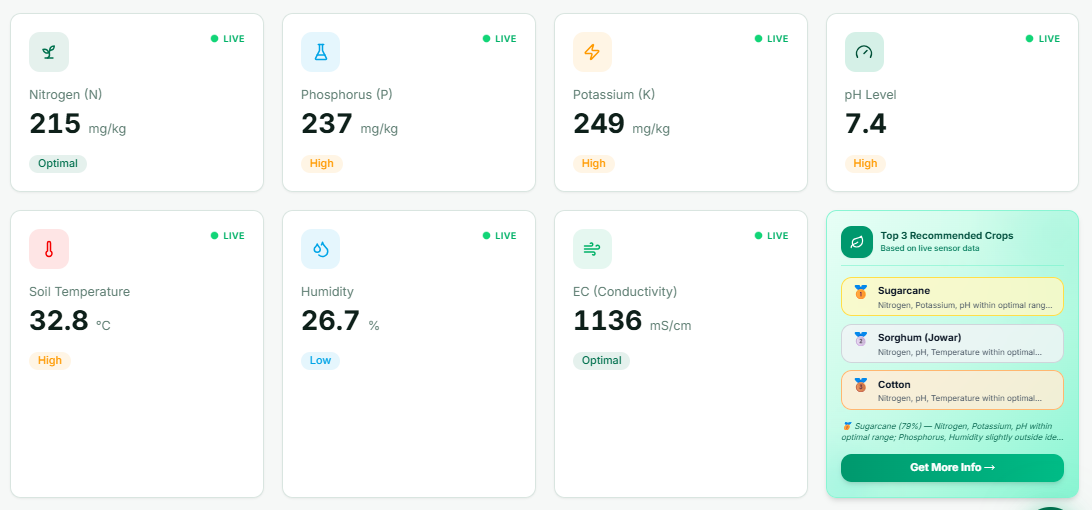
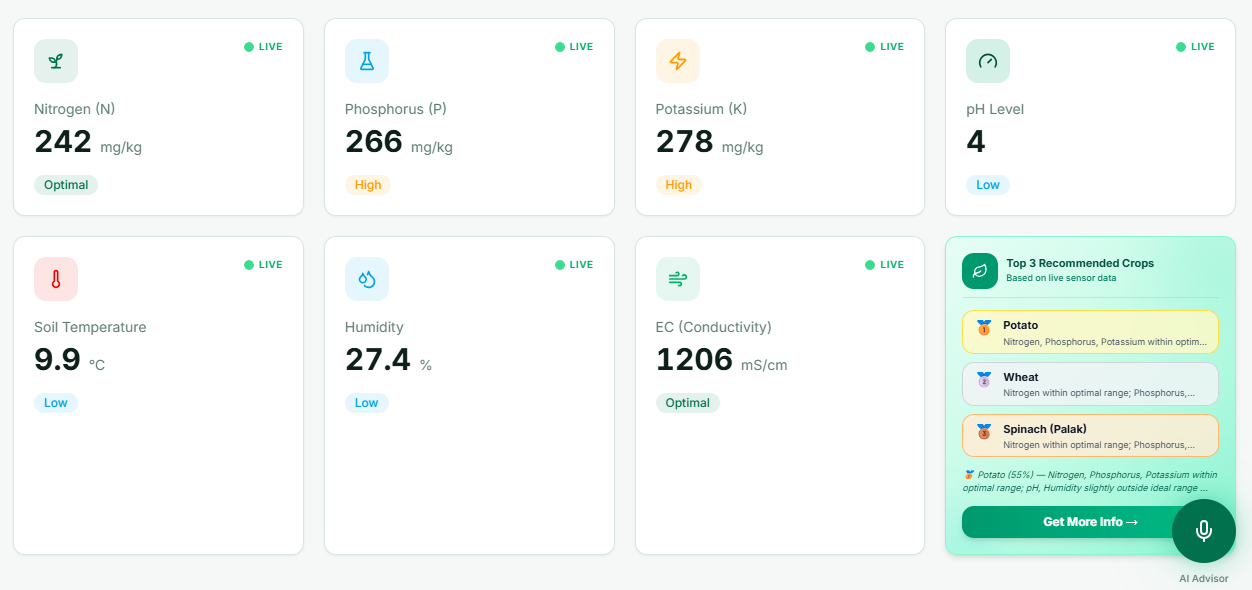
URL Updated

diff --git a/Frontend/src/pages/AIAdvisor.tsx b/Frontend/src/pages/AIAdvisor.tsx
@@ -89,109 +89,209 @@ export default function AIAdvisor() {
   }, [messages]);
 
   // Connect to WebSocket
+  // const connectWebSocket = async () => {
+  //   try {
+  //     setIsLoading(true);
+  //     setError(null);
+
+  //     const host = window.location.hostname || "localhost";
+  //     const backendPort = "8000";
+  //     const wsUrl = `ws://${host}:${backendPort}/voice/ws/voice-advisor`;
+
+  //     addMessage("info", t("connectingToVoiceAdvisor"));
+
+  //     const ws = new WebSocket(wsUrl);
+
+  //     ws.onopen = () => {
+  //       setIsConnected(true);
+  //       setIsLoading(false);
+  //       addMessage("status", t("connectedToVoiceAdvisor"));
+
+  //       // Send initial config
+  //       if (landSize) {
+  //         ws.send(JSON.stringify({ type: "config", land_size_acres: landSize }));
+  //       }
+  //     };
+
+  //     ws.onmessage = (event) => {
+  //       try {
+  //         const data = JSON.parse(event.data);
+
+  //         switch (data.type) {
+  //           case "status":
+  //             addMessage("status", `📢 ${data.message}`);
+  //             break;
+
+  //           case "transcription":
+  //             addMessage("transcription", `${t("youSaid")}: ${data.text}`, data.language);
+  //             break;
+
+  //           case "ai_response":
+  //             addMessage("ai_response", `🤖 ${data.text}`);
+  //             break;
+
+  //           case "audio_chunk":
+  //             audioChunksRef.current.push(base64ToBytes(data.data));
+  //             addMessage("info", `📥 Received audio chunk (${audioChunksRef.current.length} chunks)`);
+  //             break;
+
+  //           case "mute_mic":
+  //             setIsMicMuted(true);
+  //             isMicMutedRef.current = true;
+  //             addMessage("mute_mic", t("micMutedAiResponding"));
+  //             break;
+
+  //           case "unmute_mic":
+  //             setIsMicMuted(false);
+  //             isMicMutedRef.current = false;
+  //             addMessage("unmute_mic", t("micUnmutedSpeakNow"));
+  //             break;
+
+  //           case "completed":
+  //             addMessage("audio_playback", t("audioReceivedPlaying"));
+  //             playAudioChunks();
+  //             break;
+
+  //           case "error":
+  //             addMessage("error", `❌ ${data.message}`);
+  //             break;
+
+  //           case "keep_alive":
+  //           case "pong":
+  //             break;
+
+  //           default:
+  //             console.log("Unknown message type:", data.type);
+  //         }
+  //       } catch (e) {
+  //         console.error("Error parsing message:", e);
+  //       }
+  //     };
+
+  //     ws.onclose = () => {
+  //       setIsConnected(false);
+  //       setIsRecording(false);
+  //       isRecordingRef.current = false;
+  //       setIsMicMuted(false);
+  //       isMicMutedRef.current = false;
+  //       addMessage("status", t("disconnected"));
+  //     };
+
+  //     ws.onerror = () => {
+  //       setError("Failed to connect to Voice Advisor. Ensure backend is running.");
+  //       setIsConnected(false);
+  //       setIsLoading(false);
+  //       addMessage("error", t("websocketFailed"));
+  //     };
+
+  //     wsRef.current = ws;
+  //   } catch (err) {
+  //     const msg = err instanceof Error ? err.message : "Connection failed";
+  //     setError(msg);
+  //     addMessage("error", `❌ ${msg}`);
+  //     setIsLoading(false);
+  //   }
+  // };
+
   const connectWebSocket = async () => {
-    try {
-      setIsLoading(true);
-      setError(null);
+  try {
+    setIsLoading(true);
+    setError(null);
 
-      const host = window.location.hostname || "localhost";
-      const backendPort = "8000";
-      const wsUrl = `ws://${host}:${backendPort}/voice/ws/voice-advisor`;
+    // ✅ Derive wss:// or ws:// from your existing VITE_API_BASE_URL env variable
+    const apiBase =
+      import.meta.env.VITE_API_BASE_URL || "http://localhost:8000";
 
-      addMessage("info", t("connectingToVoiceAdvisor"));
+    const wsUrl = apiBase
+      .replace(/^https:\/\//, "wss://")   // https://agricheck-production.up.railway.app → wss://...
+      .replace(/^http:\/\//, "ws://")     // http://127.0.0.1:8000 → ws://...
+      .concat("/voice/ws/voice-advisor"); // keep your existing backend path
 
-      const ws = new WebSocket(wsUrl);
+    addMessage("info", t("connectingToVoiceAdvisor"));
 
-      ws.onopen = () => {
-        setIsConnected(true);
-        setIsLoading(false);
-        addMessage("status", t("connectedToVoiceAdvisor"));
+    const ws = new WebSocket(wsUrl);
 
-        // Send initial config
-        if (landSize) {
-          ws.send(JSON.stringify({ type: "config", land_size_acres: landSize }));
-        }
-      };
-
-      ws.onmessage = (event) => {
-        try {
-          const data = JSON.parse(event.data);
-
-          switch (data.type) {
-            case "status":
-              addMessage("status", `📢 ${data.message}`);
-              break;
-
-            case "transcription":
-              addMessage("transcription", `${t("youSaid")}: ${data.text}`, data.language);
-              break;
-
-            case "ai_response":
-              addMessage("ai_response", `🤖 ${data.text}`);
-              break;
-
-            case "audio_chunk":
-              audioChunksRef.current.push(base64ToBytes(data.data));
-              addMessage("info", `📥 Received audio chunk (${audioChunksRef.current.length} chunks)`);
-              break;
-
-            case "mute_mic":
-              setIsMicMuted(true);
-              isMicMutedRef.current = true;
-              addMessage("mute_mic", t("micMutedAiResponding"));
-              break;
-
-            case "unmute_mic":
-              setIsMicMuted(false);
-              isMicMutedRef.current = false;
-              addMessage("unmute_mic", t("micUnmutedSpeakNow"));
-              break;
-
-            case "completed":
-              addMessage("audio_playback", t("audioReceivedPlaying"));
-              playAudioChunks();
-              break;
-
-            case "error":
-              addMessage("error", `❌ ${data.message}`);
-              break;
-
-            case "keep_alive":
-            case "pong":
-              break;
-
-            default:
-              console.log("Unknown message type:", data.type);
-          }
-        } catch (e) {
-          console.error("Error parsing message:", e);
-        }
-      };
-
-      ws.onclose = () => {
-        setIsConnected(false);
-        setIsRecording(false);
-        isRecordingRef.current = false;
-        setIsMicMuted(false);
-        isMicMutedRef.current = false;
-        addMessage("status", t("disconnected"));
-      };
-
-      ws.onerror = () => {
-        setError("Failed to connect to Voice Advisor. Ensure backend is running.");
-        setIsConnected(false);
-        setIsLoading(false);
-        addMessage("error", t("websocketFailed"));
-      };
-
-      wsRef.current = ws;
-    } catch (err) {
-      const msg = err instanceof Error ? err.message : "Connection failed";
-      setError(msg);
-      addMessage("error", `❌ ${msg}`);
+    ws.onopen = () => {
+      setIsConnected(true);
       setIsLoading(false);
-    }
-  };
+      addMessage("status", t("connectedToVoiceAdvisor"));
+
+      // Send initial config
+      if (landSize) {
+        ws.send(JSON.stringify({ type: "config", land_size_acres: landSize }));
+      }
+    };
+
+    ws.onmessage = (event) => {
+      try {
+        const data = JSON.parse(event.data);
+
+        switch (data.type) {
+          case "status":
+            addMessage("status", `📢 ${data.message}`);
+            break;
+          case "transcription":
+            addMessage("transcription", `${t("youSaid")}: ${data.text}`, data.language);
+            break;
+          case "ai_response":
+            addMessage("ai_response", `🤖 ${data.text}`);
+            break;
+          case "audio_chunk":
+            audioChunksRef.current.push(base64ToBytes(data.data));
+            addMessage("info", `📥 Received audio chunk (${audioChunksRef.current.length} chunks)`);
+            break;
+          case "mute_mic":
+            setIsMicMuted(true);
+            isMicMutedRef.current = true;
+            addMessage("mute_mic", t("micMutedAiResponding"));
+            break;
+          case "unmute_mic":
+            setIsMicMuted(false);
+            isMicMutedRef.current = false;
+            addMessage("unmute_mic", t("micUnmutedSpeakNow"));
+            break;
+          case "completed":
+            addMessage("audio_playback", t("audioReceivedPlaying"));
+            playAudioChunks();
+            break;
+          case "error":
+            addMessage("error", `❌ ${data.message}`);
+            break;
+          case "keep_alive":
+          case "pong":
+            break;
+          default:
+            console.log("Unknown message type:", data.type);
+        }
+      } catch (e) {
+        console.error("Error parsing message:", e);
+      }
+    };
+
+    ws.onclose = () => {
+      setIsConnected(false);
+      setIsRecording(false);
+      isRecordingRef.current = false;
+      setIsMicMuted(false);
+      isMicMutedRef.current = false;
+      addMessage("status", t("disconnected"));
+    };
+
+    ws.onerror = () => {
+      setError("Failed to connect to Voice Advisor. Ensure backend is running.");
+      setIsConnected(false);
+      setIsLoading(false);
+      addMessage("error", t("websocketFailed"));
+    };
+
+    wsRef.current = ws;
+  } catch (err) {
+    const msg = err instanceof Error ? err.message : "Connection failed";
+    setError(msg);
+    addMessage("error", `❌ ${msg}`);
+    setIsLoading(false);
+  }
+};
 
   // Disconnect from WebSocket
   const disconnectWebSocket = () => {
